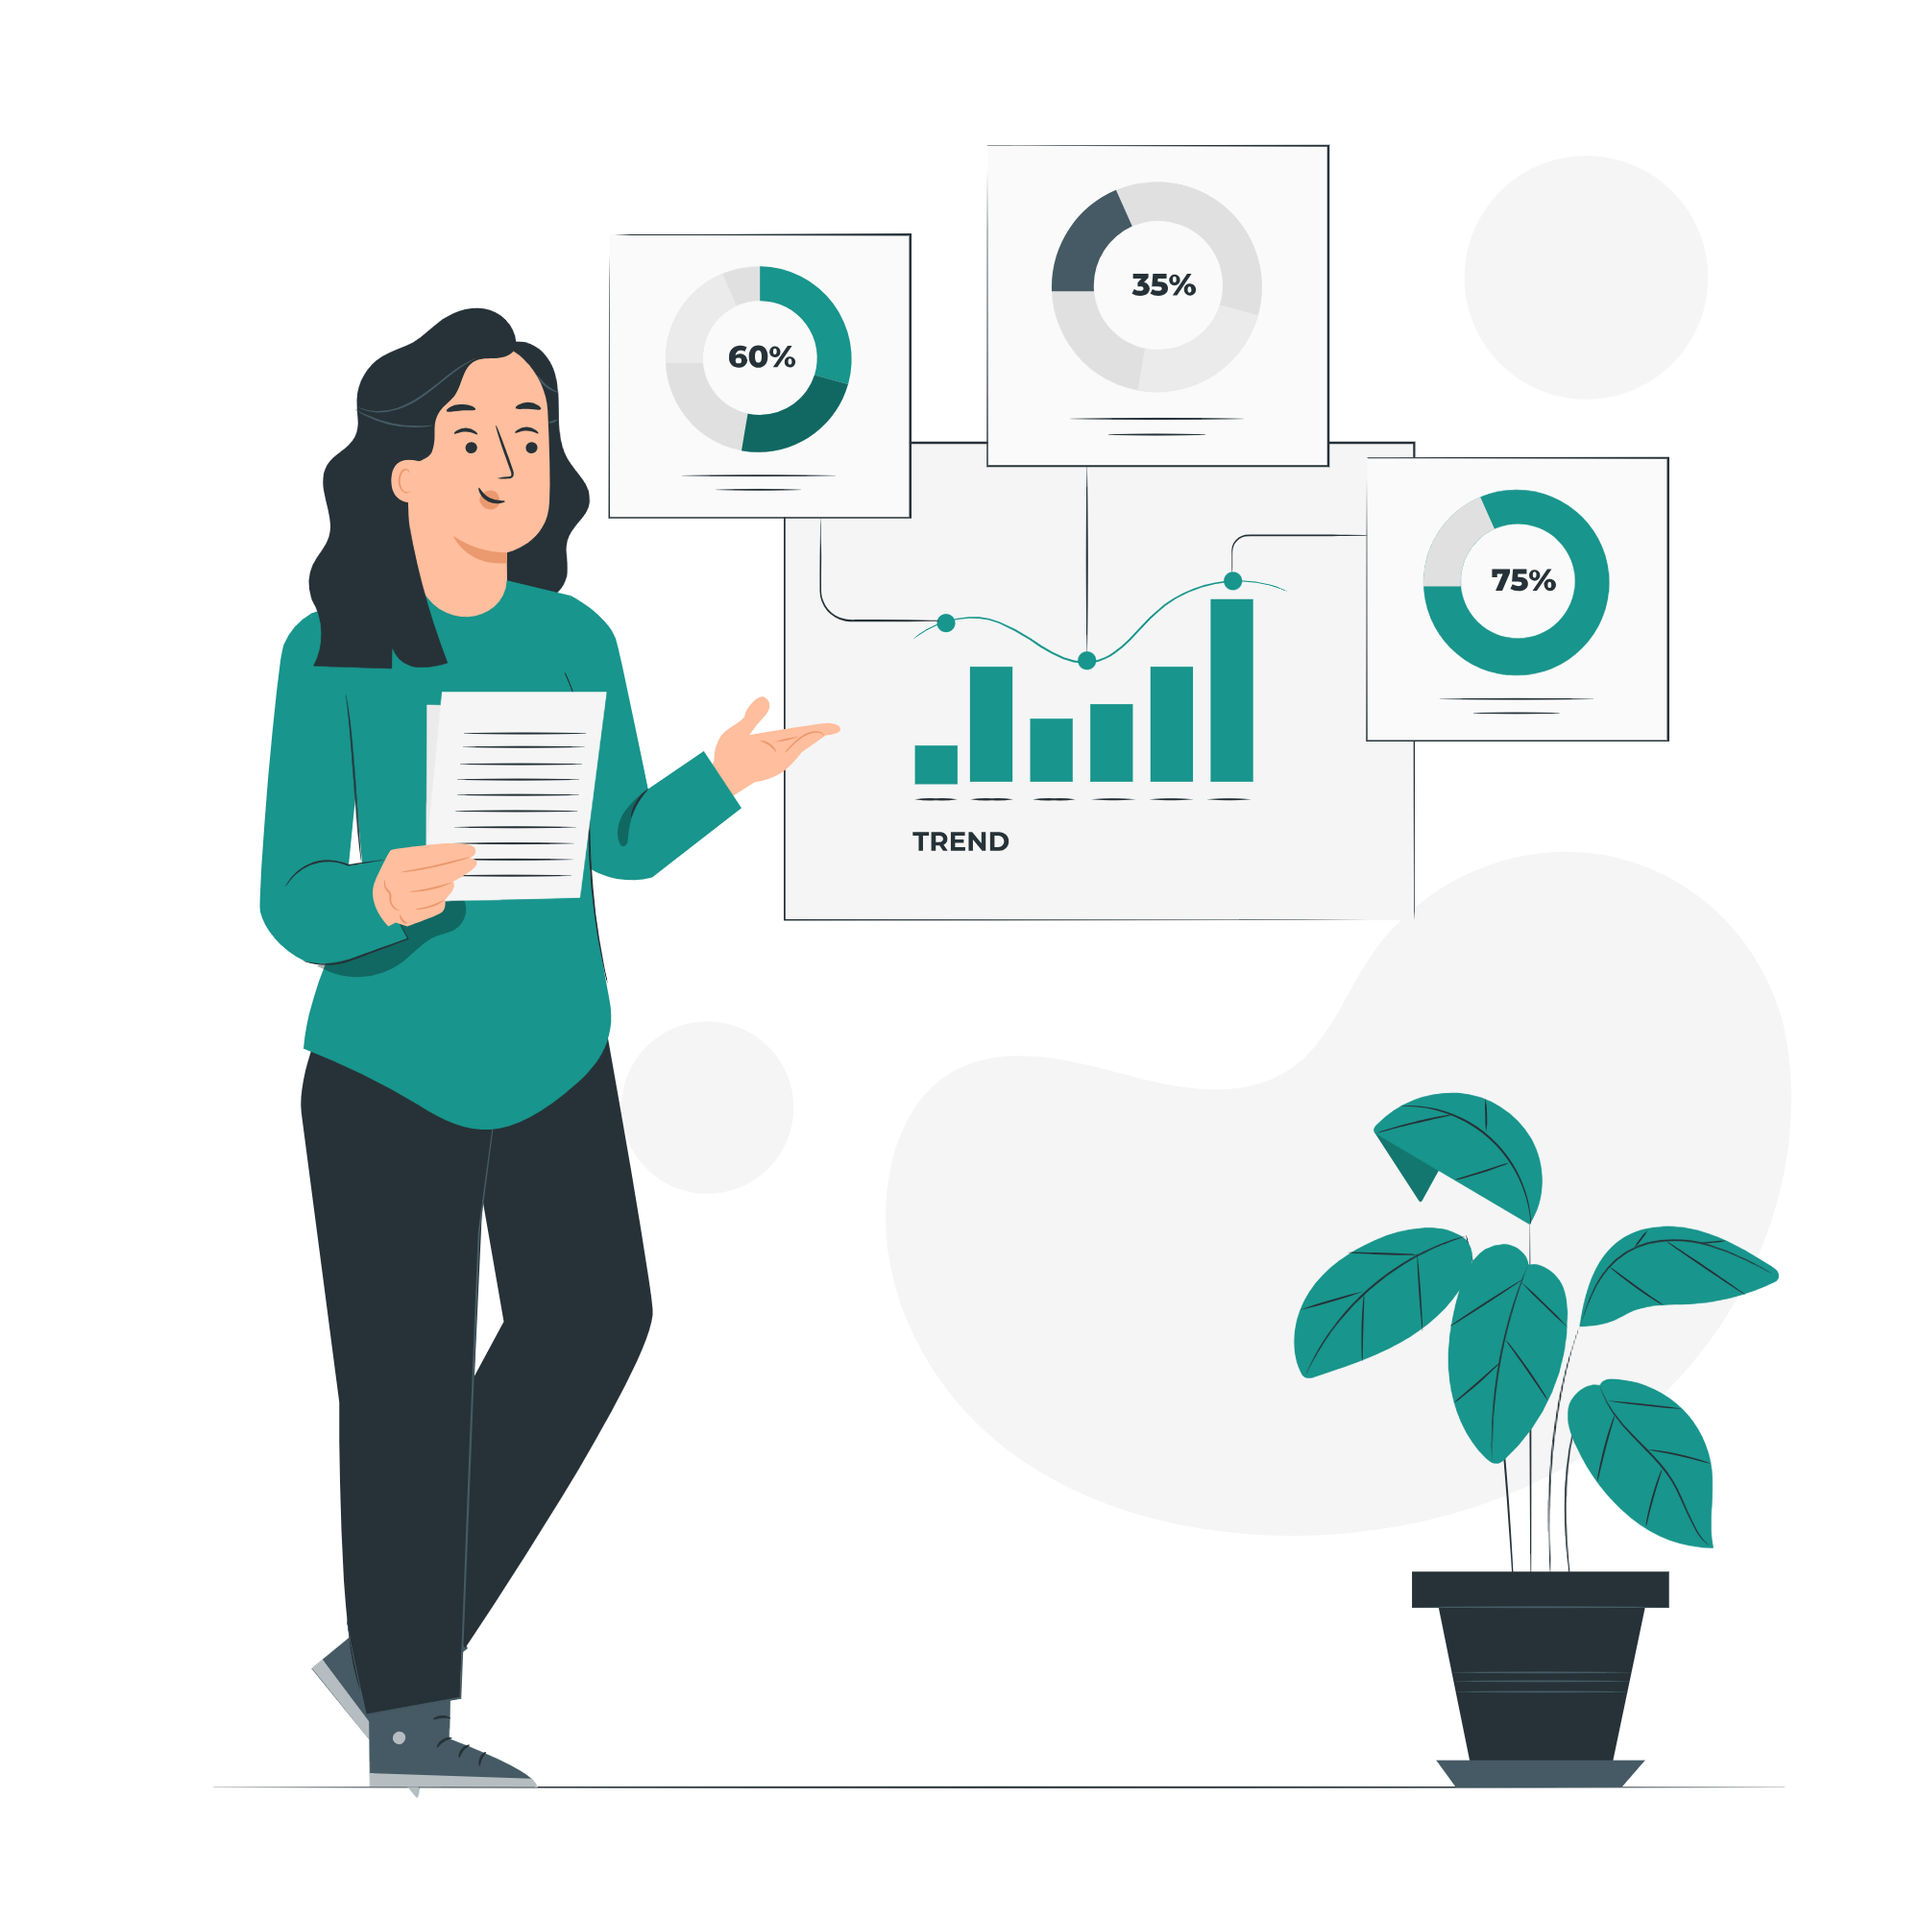
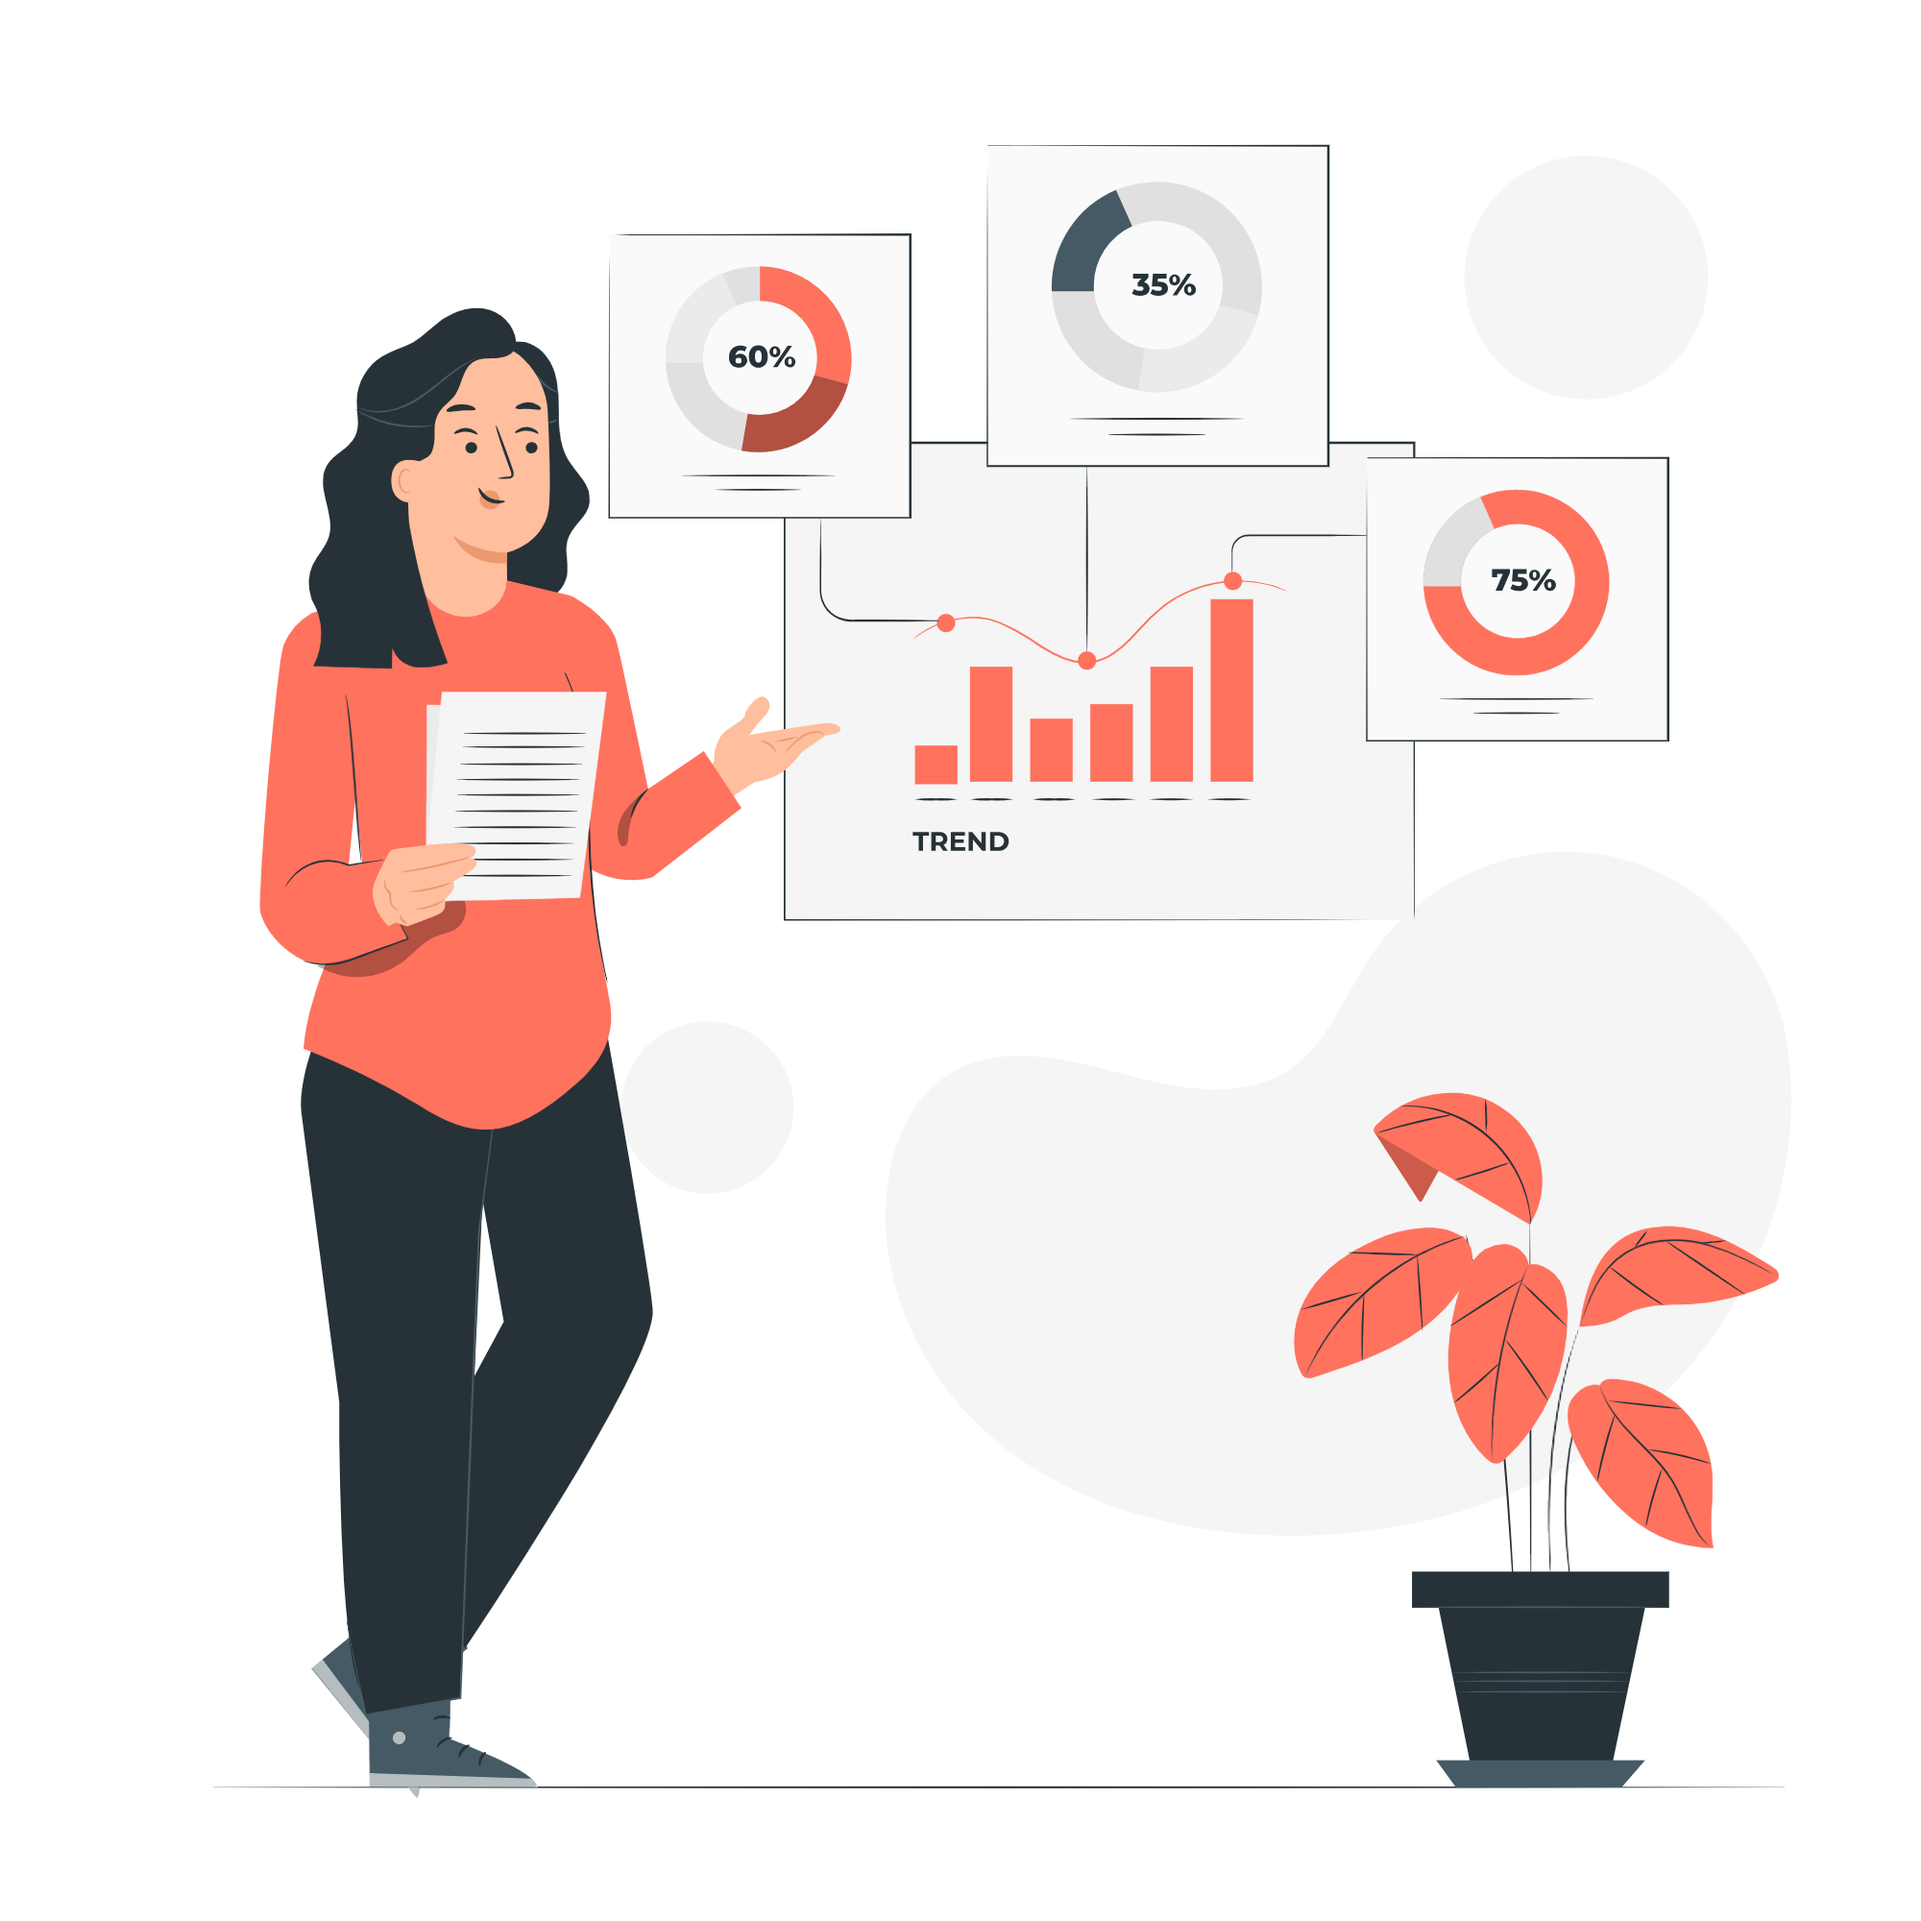
Changed the tick and changed the Help Image

diff --git a/src/resource/component/HomePageComponent/Help.jsx b/src/resource/component/HomePageComponent/Help.jsx
@@ -2,6 +2,7 @@ import ReactGA from "react-ga";
 import { Link } from "react-router-dom";
 import buss from "../../../assets/images/buss.png";
 import ux from "../../../assets/images/ux.png";
+import tick from "../../../assets/buttons/tick.png";
 ReactGA.initialize("G-R2Q7XQ6WBW");
 ReactGA.pageview(window.location.pathname + window.location.search);
 
@@ -34,28 +35,29 @@ const Help = () => {
               We specialize in creating custom solutions that unleash the full
               growth potential of your business.
             </p>
+
             <ul className="p-0 m-0 leading-6 border-0 border-gray-300">
               <li className="box-border relative py-1 pl-0 text-left text-gray-500 border-solid">
-                <span className="inline-flex items-center justify-center w-6 h-6 mr-2 text-white bg-[#ACE57F] rounded-full">
-                  <span className="text-sm font-bold">✓</span>
+                <span className="inline-flex align-middle  items-center justify-center">
+                  <img src={tick} className="h-10" alt="" />
                 </span>{" "}
                 Maximize productivity and accelerate growth
               </li>
               <li className="box-border relative py-1 pl-0 text-left text-gray-500 border-solid">
-                <span className="inline-flex items-center justify-center w-6 h-6 mr-2 text-white bg-[#ACE57F] rounded-full">
-                  <span className="text-sm font-bold">✓</span>
+                <span className="inline-flex align-middle  items-center justify-center">
+                  <img src={tick} className="h-10" alt="" />
                 </span>{" "}
                 Stay ahead of the competition with innovative solutions
               </li>
               <li className="box-border relative py-1 pl-0 text-left text-gray-500 border-solid">
-                <span className="inline-flex items-center justify-center w-6 h-6 mr-2 text-white bg-[#ACE57F] rounded-full">
-                  <span className="text-sm font-bold">✓</span>
+                <span className="inline-flex align-middle  items-center justify-center">
+                  <img src={tick} className="h-10" alt="" />
                 </span>{" "}
                 Continuously improve and exceed expectations
               </li>
               <li className="box-border relative py-1 pl-0 text-left text-gray-500 border-solid">
-                <span className="inline-flex items-center justify-center w-6 h-6 mr-2 text-white bg-[#ACE57F] rounded-full">
-                  <span className="text-sm font-bold">✓</span>
+                <span className="inline-flex align-middle items-center justify-center">
+                  <img src={tick} className="h-10" alt="" />
                 </span>{" "}
                 Integrate seamlessly with your existing systems
               </li>
@@ -75,28 +77,28 @@ const Help = () => {
             </p>
             <ul className="p-0 m-0 leading-6 border-0 border-gray-300">
               <li className="box-border relative py-1 pl-0 text-left text-gray-500 border-solid">
-                <span className="inline-flex items-center justify-center w-6 h-6 mr-2 text-white bg-[#ACE57F] rounded-full">
-                  <span className="text-sm font-bold">✓</span>
+                <span className="inline-flex align-middle  items-center justify-center">
+                  <img src={tick} className="h-10" alt="" />
                 </span>{" "}
-                Research the event and target audience to meet specific needs
+                Research the event and target audience
               </li>
               <li className="box-border relative py-1 pl-0 text-left text-gray-500 border-solid">
-                <span className="inline-flex items-center justify-center w-6 h-6 mr-2 text-white bg-[#ACE57F] rounded-full">
-                  <span className="text-sm font-bold">✓</span>
+                <span className="inline-flex align-middle  items-center justify-center">
+                  <img src={tick} className="h-10" alt="" />
                 </span>{" "}
-                Implement cutting-edge design trends and techniques
+                Implement cutting-edge design trends
               </li>
               <li className="box-border relative py-1 pl-0 text-left text-gray-500 border-solid">
-                <span className="inline-flex items-center justify-center w-6 h-6 mr-2 text-white bg-[#ACE57F] rounded-full">
-                  <span className="text-sm font-bold">✓</span>
+                <span className="inline-flex align-middle  items-center justify-center">
+                  <img src={tick} className="h-10" alt="" />
                 </span>{" "}
-                Merge design and technology seamlessly for optimal functionality
+                Merge design and technology
               </li>
               <li className="box-border relative py-1 pl-0 text-left text-gray-500 border-solid">
-                <span className="inline-flex items-center justify-center w-6 h-6 mr-2 text-white bg-[#ACE57F] rounded-full">
-                  <span className="text-sm font-bold">✓</span>
+                <span className="inline-flex align-middle items-center justify-center">
+                  <img src={tick} className="h-10" alt="" />
                 </span>{" "}
-                Craft user experiences that leave a lasting impression
+                Craft user experiences
               </li>
             </ul>
           </div>
@@ -113,10 +115,7 @@ const Help = () => {
         </div>
         {/* Additional Feature */}
         <div className="box-border flex justify-center mt-14">
-          <Link
-            to="/contact"
-            className="button-dark " role="button"
-          >
+          <Link to="/contact" className="button-dark " role="button">
             Book a Call
           </Link>
         </div>

diff --git a/src/resource/component/HomePageComponent/Testimonial.jsx b/src/resource/component/HomePageComponent/Testimonial.jsx
@@ -14,7 +14,7 @@ const Testimonial = () => {
             <h2 className="relative flex items-start justify-start w-full max-w-3xl text-4xl font-bold lg:justify-center suman">
               <svg
                 xmlns="http://www.w3.org/2000/svg"
-                fill="currentColor"
+                fill="#e76e50"
                 className="absolute right-0 hidden w-12 h-12 -mt-2 -mr-16 text-[#ACE57F] lg:inline-block"
                 viewBox="0 0 975.036 975.036"
               >
@@ -33,15 +33,18 @@ const Testimonial = () => {
                       className="w-full h-full flex-shrink-0 object-fit object-cover shadow-lg rounded"
                     />
                     <div className="w-32 md:flex hidden items-center justify-center absolute top-0 -mr-16 -mt-14 right-0 h-32 bg-[#e76e50] rounded-full">
-                      <img
-                        src="https://tuk-cdn.s3.amazonaws.com/can-uploader/testimonial-svg1.svg"
-                        alt="commas"
-                      />
+                      <svg
+                        xmlns="http://www.w3.org/2000/svg"
+                        fill="white"
+                        className=" w-12 h-12 lg:inline-block"
+                        viewBox="0 0 975.036 975.036"
+                      >
+                        <path d="M925.036 57.197h-304c-27.6 0-50 22.4-50 50v304c0 27.601 22.4 50 50 50h145.5c-1.9 79.601-20.4 143.3-55.4 191.2-27.6 37.8-69.399 69.1-125.3 93.8-25.7 11.3-36.8 41.7-24.8 67.101l36 76c11.6 24.399 40.3 35.1 65.1 24.399 66.2-28.6 122.101-64.8 167.7-108.8 55.601-53.7 93.7-114.3 114.3-181.9 20.601-67.6 30.9-159.8 30.9-276.8v-239c0-27.599-22.401-50-50-50zM106.036 913.497c65.4-28.5 121-64.699 166.9-108.6 56.1-53.7 94.4-114.1 115-181.2 20.6-67.1 30.899-159.6 30.899-277.5v-239c0-27.6-22.399-50-50-50h-304c-27.6 0-50 22.4-50 50v304c0 27.601 22.4 50 50 50h145.5c-1.9 79.601-20.4 143.3-55.4 191.2-27.6 37.8-69.4 69.1-125.3 93.8-25.7 11.3-36.8 41.7-24.8 67.101l35.9 75.8c11.601 24.399 40.501 35.2 65.301 24.399z"></path>
+                      </svg>
                     </div>
                   </div>
                   <div className="md:w-2/3 lg:w-2/3 xl:ml-32 md:ml-20 md:mt-0  flex flex-col justify-between">
                     <div>
-                      
                       <h1 className=" suman text-2xl md:pt-8 font-semibold text-gray-800">
                         He was definitely the person who if commits would
                         deliver with utmost excellence.
@@ -66,7 +69,6 @@ const Testimonial = () => {
                           </span>
                         </p>
                       </blockquote>
-                      
                     </div>
                     <div className="md:mt-8 mt-4">
                       <p className="suman text-xl font-semibold leading-4 text-gray-800">

diff --git a/src/resource/component/HomePageComponent/WorkProcess.jsx b/src/resource/component/HomePageComponent/WorkProcess.jsx
@@ -1,4 +1,5 @@
 import ReactGA from 'react-ga';
+import tick from '../../../assets/buttons/tick.png';
 ReactGA.initialize('G-R2Q7XQ6WBW');
 ReactGA.pageview(window.location.pathname + window.location.search);
 
@@ -50,12 +51,13 @@ const WorkProcess = () => {
     const listItems = props.para.map((point) => (
       <li
         key={point}
-        className="box-border relative py-1 pl-0 text-left text-gray-500 border-solid"
-      >
-        <div className="inline-flex items-center justify-center w-6 h-6 mr-2 text-white bg-[#ACE57F] rounded-full">
-          <div className="text-sm font-bold">✓</div>
-        </div>{" "}
-        {point}
+         className="box-border relative py-1 pl-0 text-left text-gray-500 border-solid">
+                <span className="inline-flex align-middle items-center justify-center">
+                  <img src={tick} className="h-10" alt="" />
+                </span>{" "}
+                {point}
+             
+        
       </li>
     ));
 
@@ -68,7 +70,7 @@ const WorkProcess = () => {
       <div className="">
         <a
           href="#_"
-          className="px-8 py-2 text-xs md:text-md font-semibold text-white uppercase transition-all duration-150 outline outline-2 outline-black bg-black rounded shadow active:bg-teal-600 hover:shadow-md ease"
+          className="px-8 py-2 text-xs md:text-md font-semibold text-white uppercase transition-all duration-150 outline outline-2 outline-[#e76e50] bg-[#e76e50] rounded shadow active:bg-teal-600 hover:shadow-md ease"
         >
           {item.step}
         </a>

diff --git a/src/resource/page/Contact.jsx b/src/resource/page/Contact.jsx
@@ -186,8 +186,7 @@ const Contact = () => {
               </label>
             </div>
             <button
-              className="shadow bg-[#033d35] hover:bg-[#176157] focus:shadow-outline focus:outline-none text-white font-bold py-2 px-6 rounded"
-              type="submit"
+              className="button-dark "  type="submit"
             >
               Send Message
             </button>
